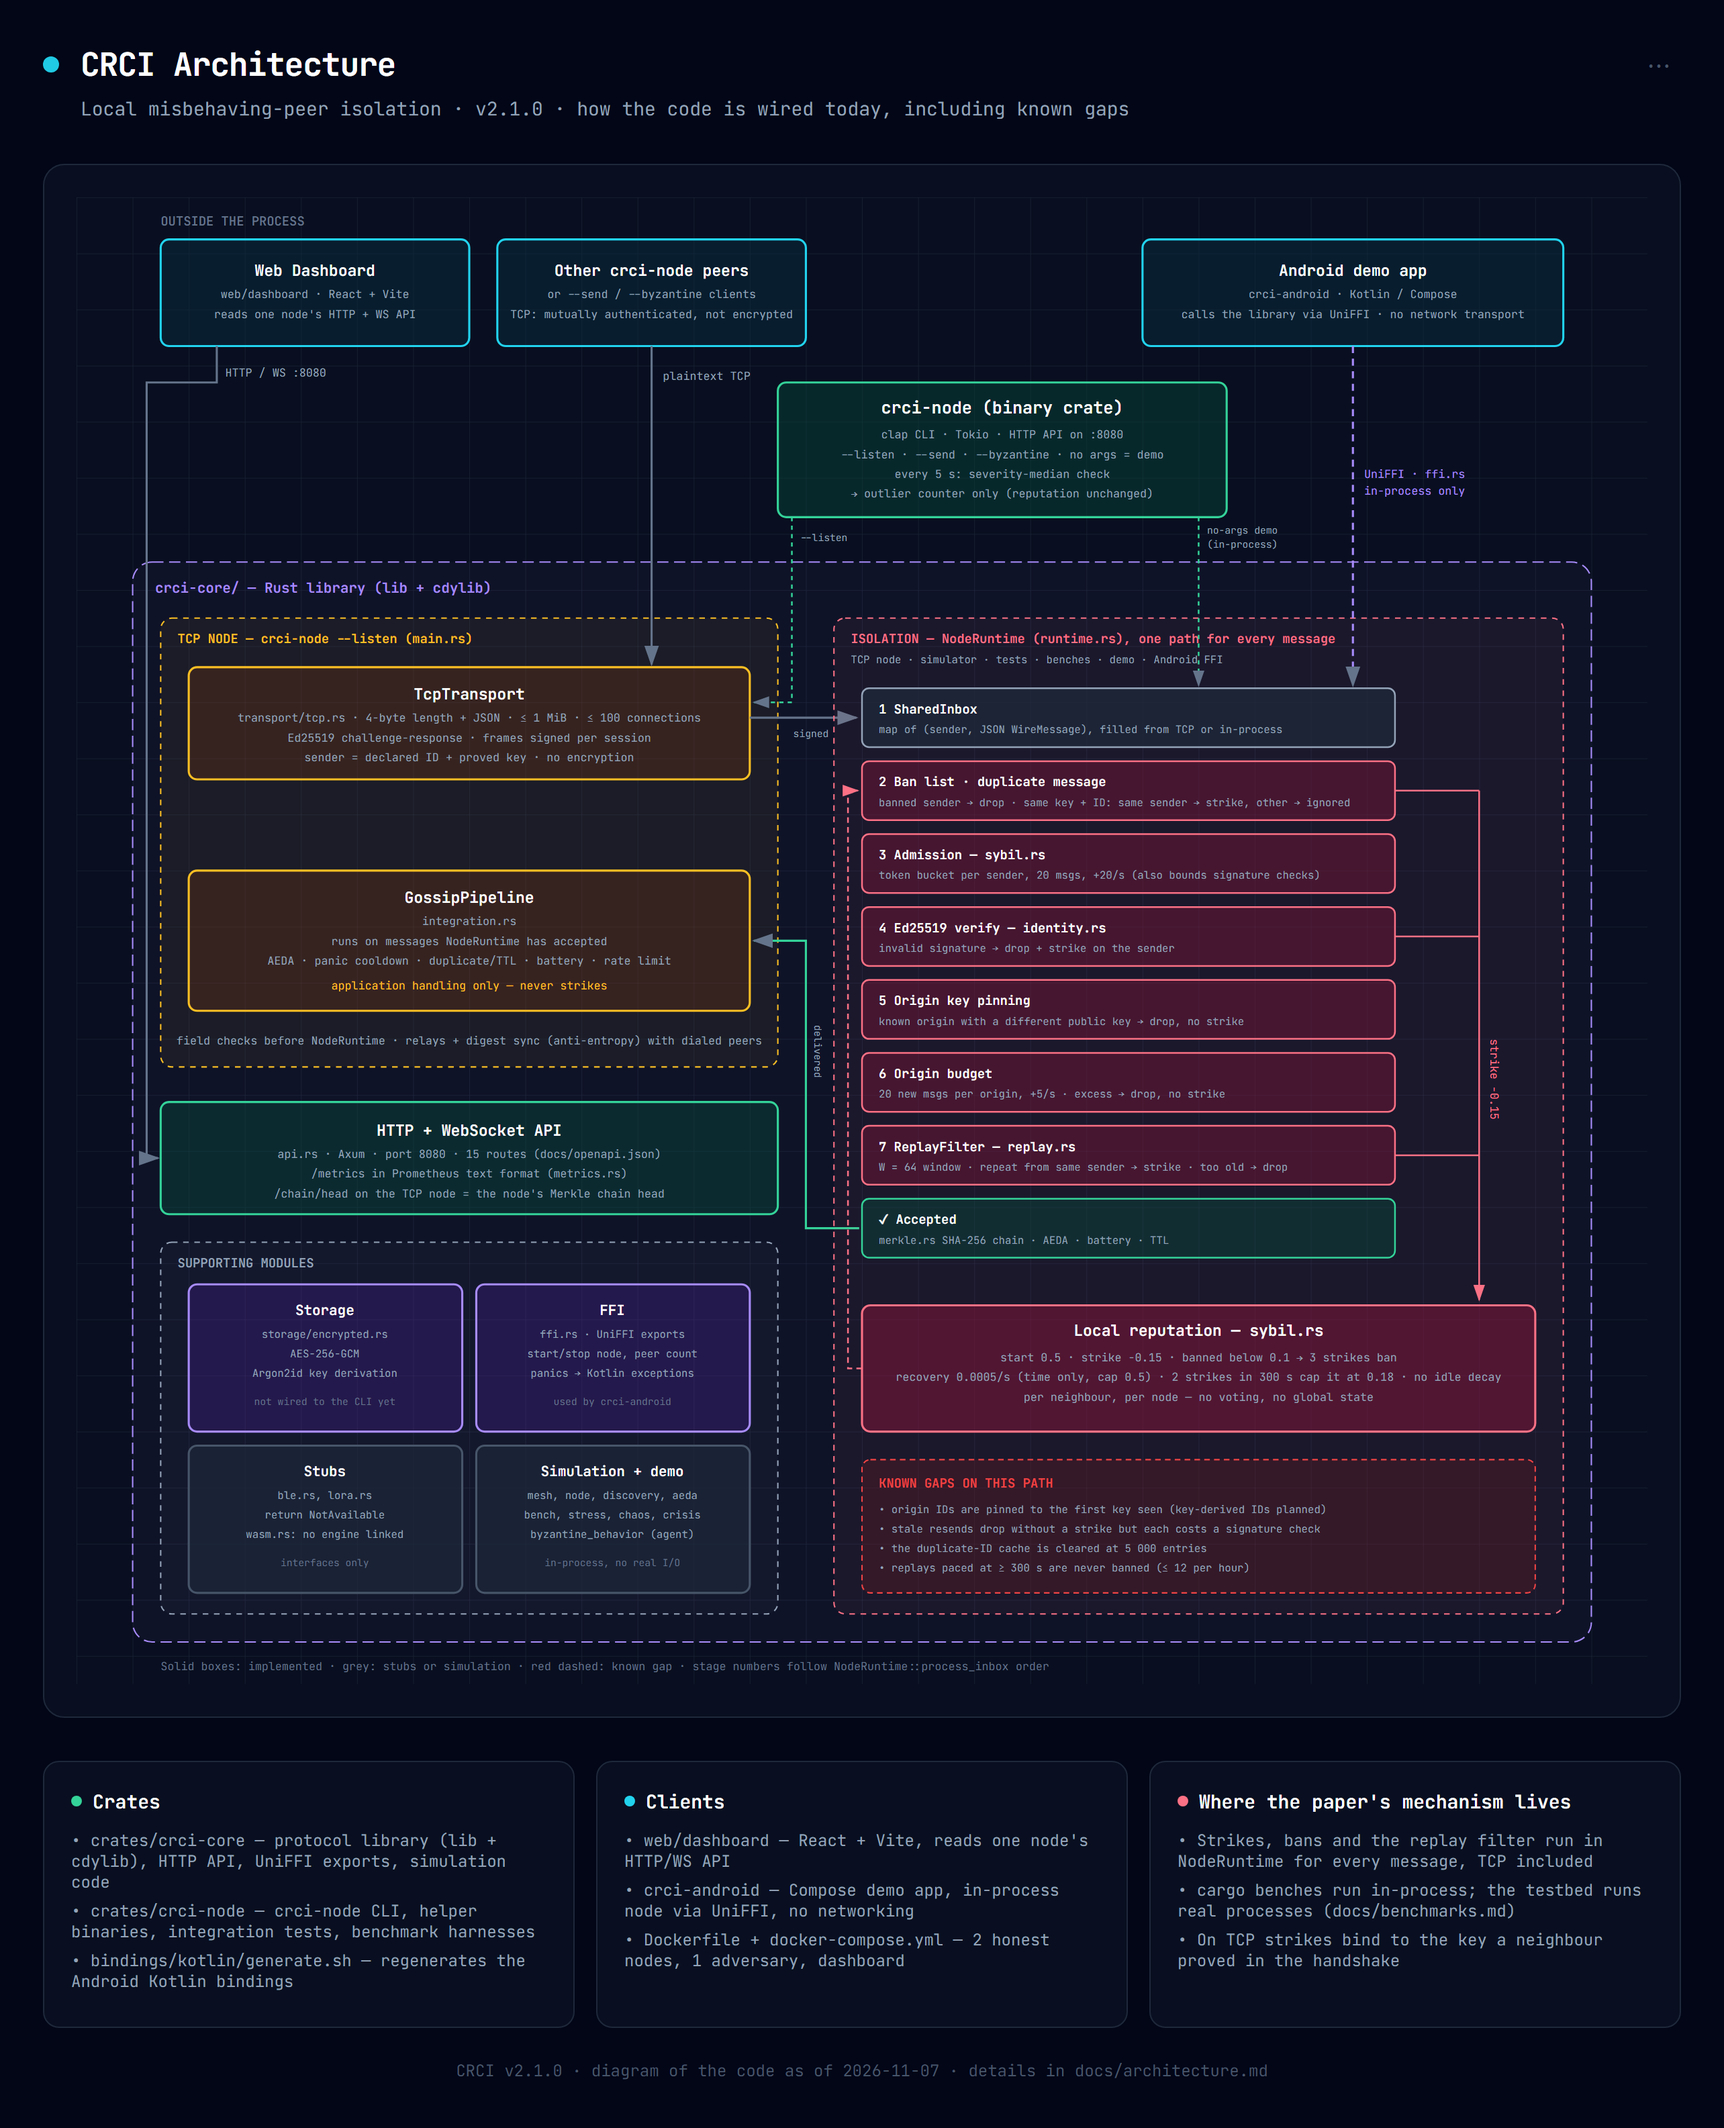
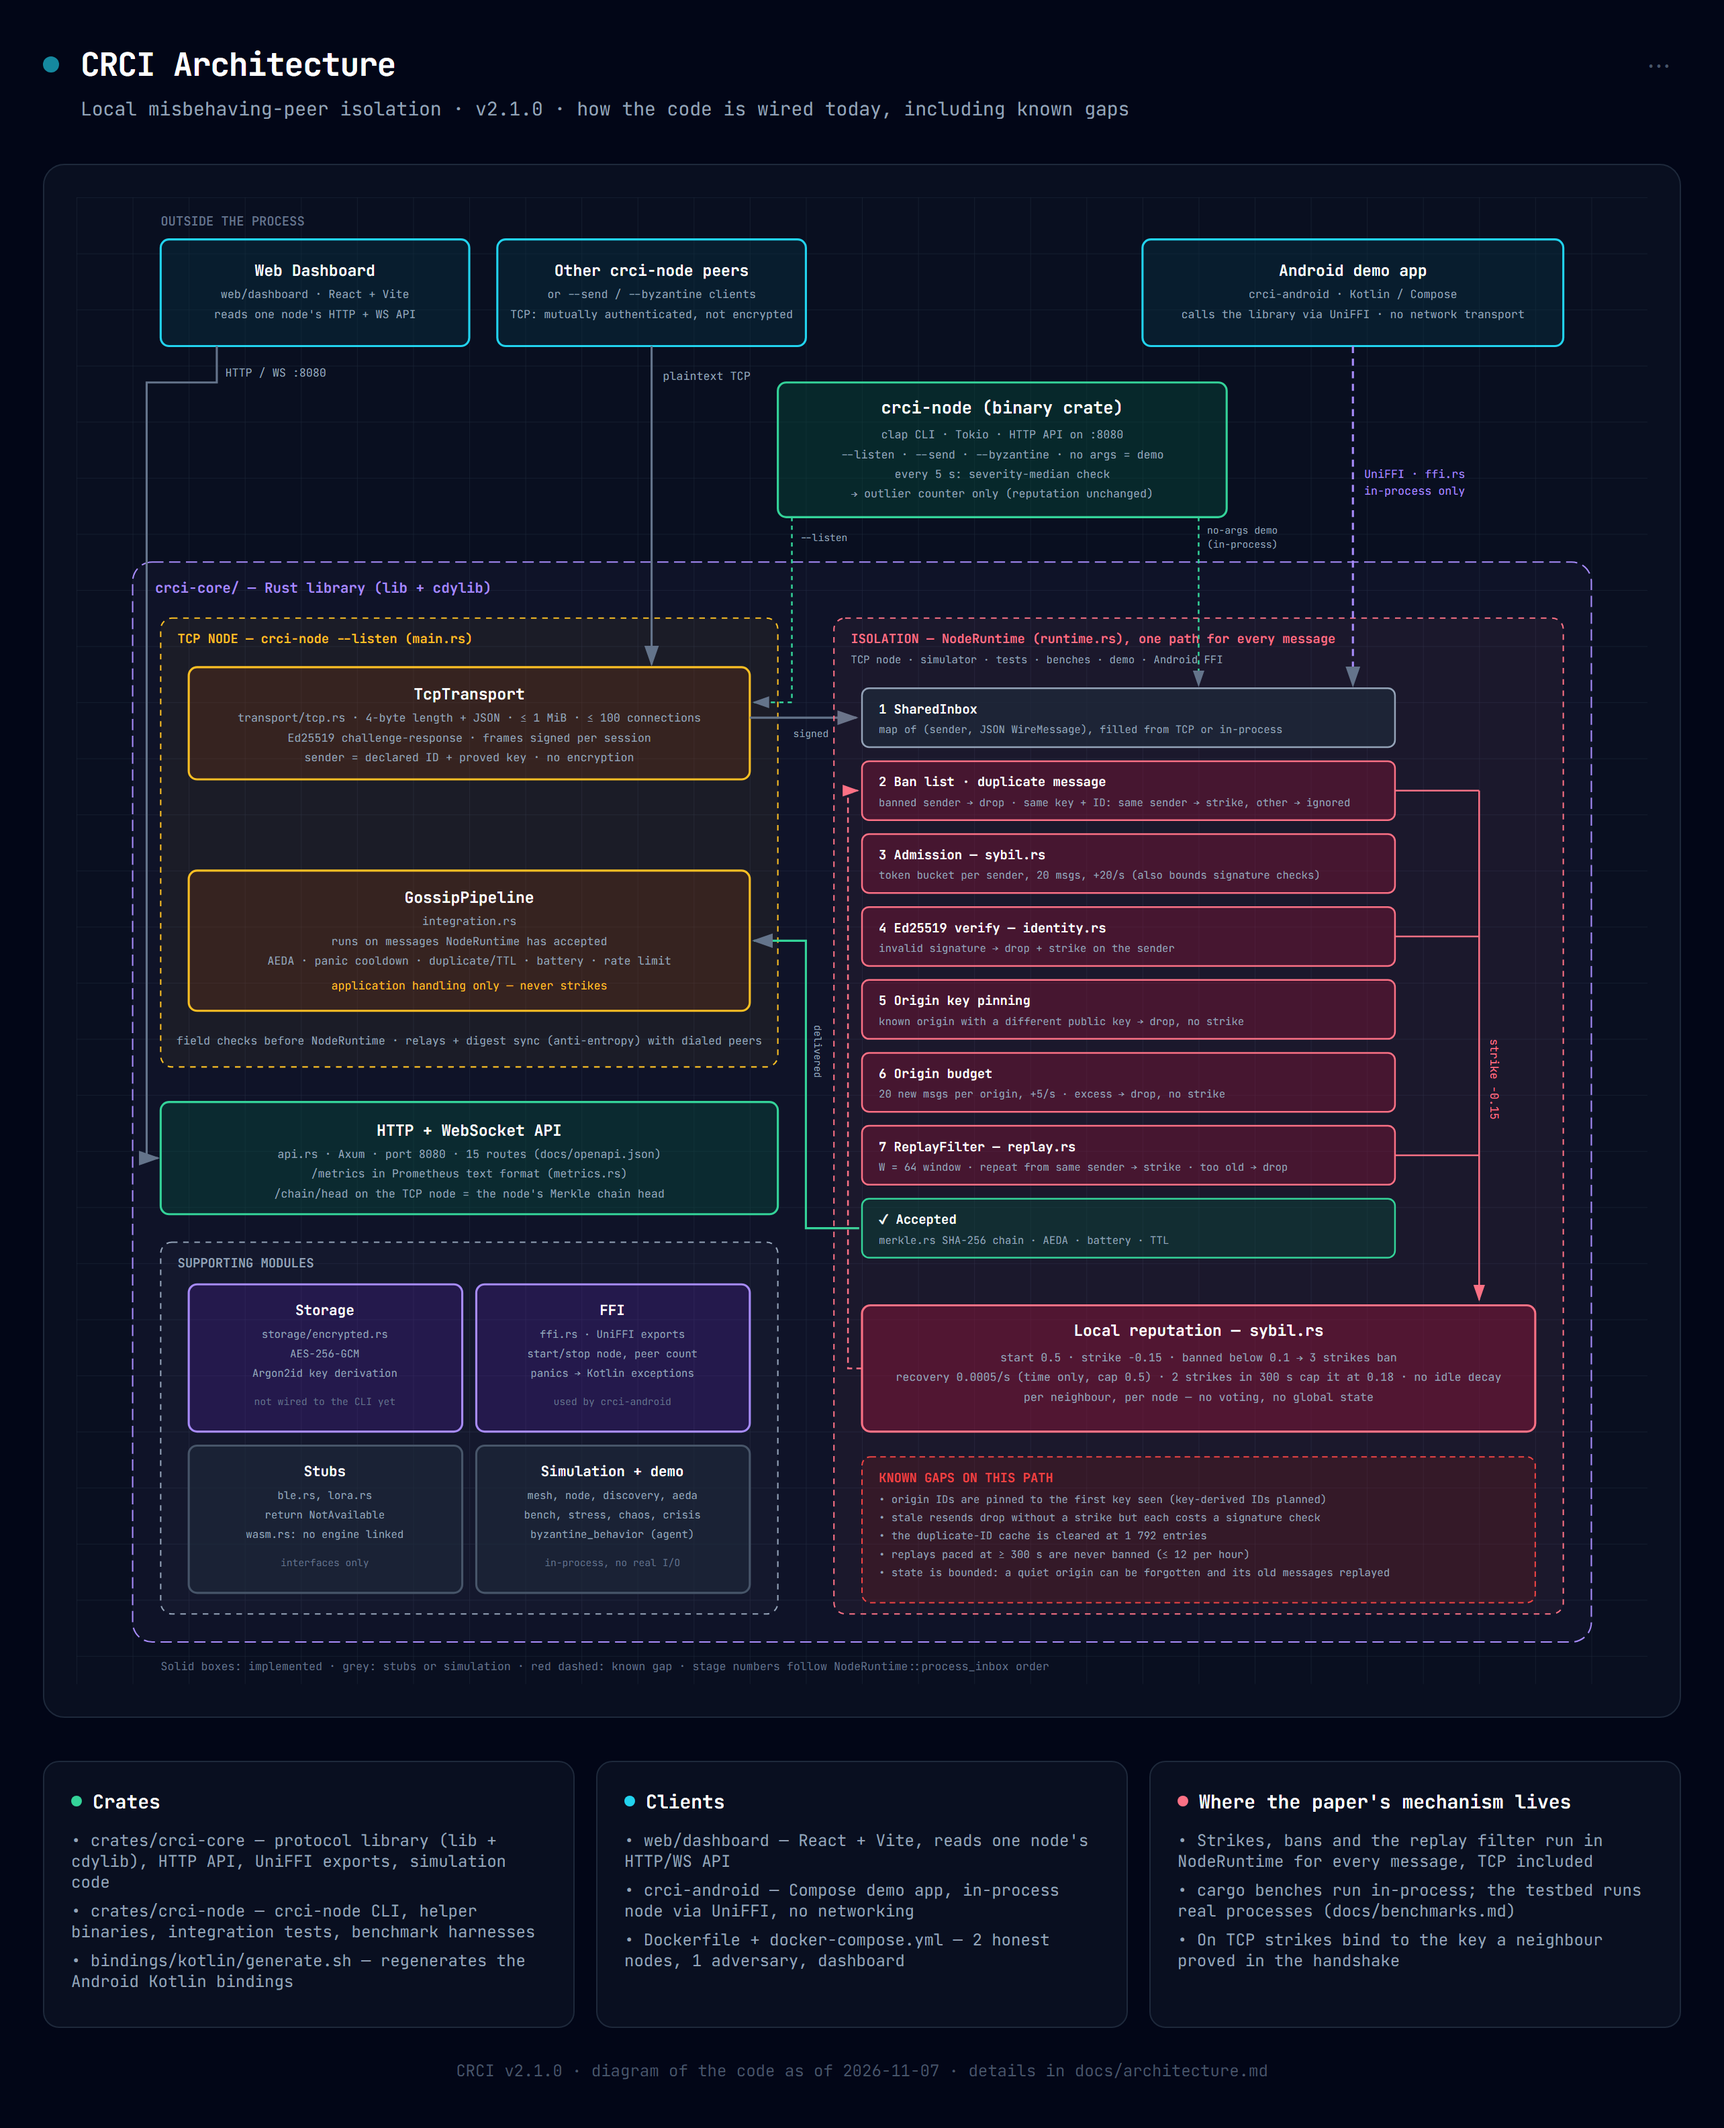
docs: correct what a flood through the TCP node would take
- One connection gets 20 new messages/s, but 100 connections with fresh
  identities deliver a million in about 8 minutes; the earlier note
  said hours. State that it is not run and that accepted-message log
  lines grow with identities.
- Diagram: the seen cache limit is 1 792 and bounded state can forget a
  quiet origin.
- Testbed README: the analysis adds back the lines a node held back.

Changed region(s): [[0.4984, 0.6871, 0.8723, 0.7808]]

diff --git a/docs/architecture/crci-architecture.html b/docs/architecture/crci-architecture.html
@@ -221,12 +221,13 @@
         <text x="800" y="858" fill="#94a3b8" font-size="8" text-anchor="middle">per neighbour, per node — no voting, no global state</text>
         <path d="M 560 835 L 550 835 L 550 423 L 557 423" fill="none" stroke="#fb7185" stroke-width="1.2" stroke-dasharray="4,3" marker-end="url(#arrowrose)"/>
 
-        <rect x="560" y="900" width="480" height="95" rx="6" fill="rgba(127,29,29,0.25)" stroke="#ef4444" stroke-width="1" stroke-dasharray="4,3"/>
-        <text x="572" y="920" fill="#ef4444" font-size="9" font-weight="600">KNOWN GAPS ON THIS PATH</text>
-        <text x="572" y="938" fill="#94a3b8" font-size="7.5">• origin IDs are pinned to the first key seen (key-derived IDs planned)</text>
-        <text x="572" y="952" fill="#94a3b8" font-size="7.5">• stale resends drop without a strike but each costs a signature check</text>
-        <text x="572" y="966" fill="#94a3b8" font-size="7.5">• the duplicate-ID cache is cleared at 5 000 entries</text>
-        <text x="572" y="980" fill="#94a3b8" font-size="7.5">• replays paced at ≥ 300 s are never banned (≤ 12 per hour)</text>
+        <rect x="560" y="898" width="480" height="104" rx="6" fill="rgba(127,29,29,0.25)" stroke="#ef4444" stroke-width="1" stroke-dasharray="4,3"/>
+        <text x="572" y="916" fill="#ef4444" font-size="9" font-weight="600">KNOWN GAPS ON THIS PATH</text>
+        <text x="572" y="931" fill="#94a3b8" font-size="7.5">• origin IDs are pinned to the first key seen (key-derived IDs planned)</text>
+        <text x="572" y="944" fill="#94a3b8" font-size="7.5">• stale resends drop without a strike but each costs a signature check</text>
+        <text x="572" y="957" fill="#94a3b8" font-size="7.5">• the duplicate-ID cache is cleared at 1 792 entries</text>
+        <text x="572" y="970" fill="#94a3b8" font-size="7.5">• replays paced at ≥ 300 s are never banned (≤ 12 per hour)</text>
+        <text x="572" y="983" fill="#94a3b8" font-size="7.5">• state is bounded: a quiet origin can be forgotten and its old messages replayed</text>
 
         <!-- ── Arrows from outside ────────────────────────────── -->
         <path d="M 100 106 L 100 132 L 50 132 L 50 685 L 58 685" fill="none" stroke="#64748b" stroke-width="1.5" marker-end="url(#arrowhead)"/>

diff --git a/scripts/testbed/README.md b/scripts/testbed/README.md
@@ -20,7 +20,7 @@ Linux only, run as root. Tested in WSL2 (Ubuntu 26.04, kernel 6.6, iproute2 6.19
 |---|---|
 | `topology.py KIND N SEED OUT.json` | Generates a topology and prints its metrics (mean/min/max degree, diameter, average shortest-path length, mean local clustering coefficient). `rgg`: random geometric graph in the unit square, radius `sqrt(2 ln N / (pi N))`, resampled until connected. `mesh`: random 4-regular graph, resampled until simple and connected (diameter 4–6 at N = 20–100). Also picks the roles for the eviction experiment (below). |
 | `testbed.py --topo T.json --out DIR --bin crci-node` | Creates the namespaces, starts one node per namespace (`TOKIO_WORKER_THREADS=2`, listening on the namespace's own address), drives the traffic, samples host CPU / memory / swap / kernel backlog drops every second, pings sampled overlay links, records per-node RSS, then stops everything and removes the namespaces. Every node's schedule counts from T0 (`--experiment-epoch-unix-ms`), because `ip netns exec` delays process start by seconds when hundreds of nodes start at once. |
-| `analyze.py DIR` | Computes delivery ratio and dissemination latency of honest-originated messages (overall, per hop, for the downstream set), bans, eviction latency, honest false evictions, rate-limit drops (honest senders' frames separately), per-origin budget drops, relay frames lost, deliveries more than 5 s late by path, host load and link RTT, and checks the fidelity criteria. Writes `summary.json`, `latency.csv`, `bans.csv`. |
+| `analyze.py DIR` | Computes delivery ratio and dissemination latency of honest-originated messages (overall, per hop, for the downstream set), bans, eviction latency, honest false evictions, rate-limit drops (honest senders' frames separately), per-origin budget drops (including the lines a node held back and reported as `(+N not printed)`), relay frames lost, deliveries more than 5 s late by path, host load and link RTT, and checks the fidelity criteria. Writes `summary.json`, `latency.csv`, `bans.csv`. |
 | `report.py OUT` | Collects every run's `summary.json` into `results.csv`. |
 | `main_table.py OUT` | The main table of `docs/benchmarks.md` (one row per configuration, ranges over seeds) from `OUT/results.csv`. |
 | `run_all.sh OUT [BIN]` | The full experiment set (see the header of the script). |

diff --git a/docs/benchmarks.md b/docs/benchmarks.md
@@ -751,7 +751,7 @@ not as partition probabilities. At 45 % the small RGGs fall apart: the mean of N
 of a single message can reach 0 when its origin ends up alone.
 
 **Long runs (12 runs: 8 messages/s for 15 simulated minutes, mesh N = 300 and rgg N = 150, f = 0 and 10 %, seeds
-1–3):** past the seen-ID limit of 5 000 (222–300 cache clears per run, all nodes together), the digest limit of
+1–3):** past the seen-ID limit of 5 000 on that build (1 792 since the per-node limits; 222–300 cache clears per run, all nodes together), the digest limit of
 256 origins (mesh only) and the time a banned peer needs to be readmitted. 0 honest false evictions, 0 strikes
 on honest senders, 0 budget drops; f = 0 delivers 100 %; every honest neighbour banned every attacker, and
 attackers that kept replaying were banned again after readmission (118–127 readmissions per run with attackers).
@@ -827,9 +827,11 @@ up to 500 nodes, 8.4–8.5 MiB at 32 messages/s (was 10.6–11.2), 7.7 MiB in th
 of a process is the runtime and binary, not protocol state. A fresh-message flood of 1 000 messages/s logs 42 MiB
 per run (68 MiB before the per-sender limit on log lines).
 
-**Not shown:** a flood through the real TCP node (the transport paces each connection at 200 frames/s, so a million
-messages take hours there; the same state code runs in-process above); memory on 1 GB devices; floods from many
-neighbours at once.
+**Not shown:** a flood through the real TCP node. It is feasible on this host: a sender gets 20 new messages/s, so
+one connection would take 14 hours for a million, but 100 connections with fresh identities (the listener's cap)
+would take about 8 minutes; it has not been run. Such a run would also measure the node's log output, which grows
+with every accepted message and so with the number of identities (only lines for dropped frames are limited).
+Memory on 1 GB devices (no device here) and floods from many neighbours at once are not measured either.
 
 ## WAN smoke test
 
